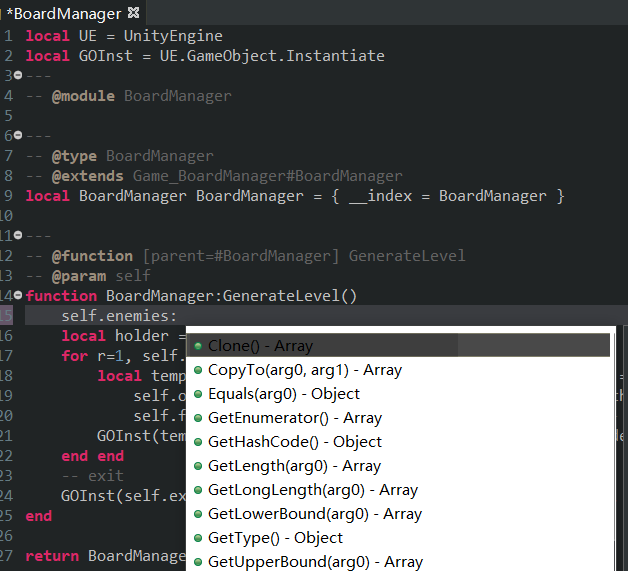
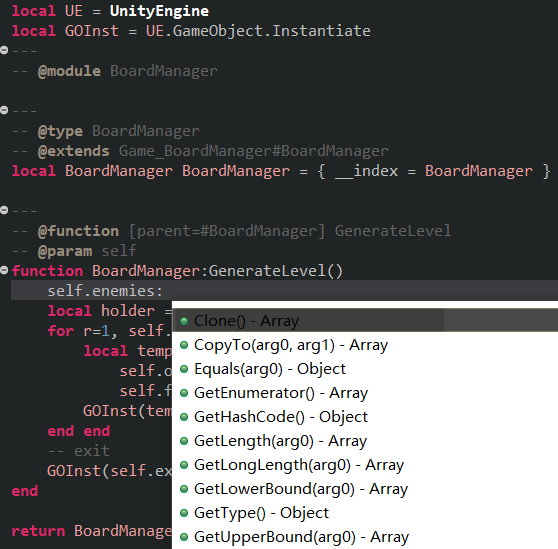
better readme

Changed region(s): [[0.0, 0.0, 1.0, 1.0], [0.9749, 0.3097, 1.0, 0.3406]]

diff --git a/README.md b/README.md
@@ -6,9 +6,9 @@ The generator is just a fancy regex matcher. Nothing special.
 # how to use
 Assuming you have an eclipse lua project already.  
 Just place generated_doclua and doclua in build paths as follows:  
-![Project Example](./generator/project_example.png)  
+<img src="./generator/project_example.png" alt="Project Example"/>  
 Then enjoy:  
-![Auto-complete Example](./generator/autocomplete_example.png)  
+<img src="./generator/autocomplete_example.png" alt="Auto-complete Example" width="400"/>  
 
 # why eclipse
 ### type hinting
